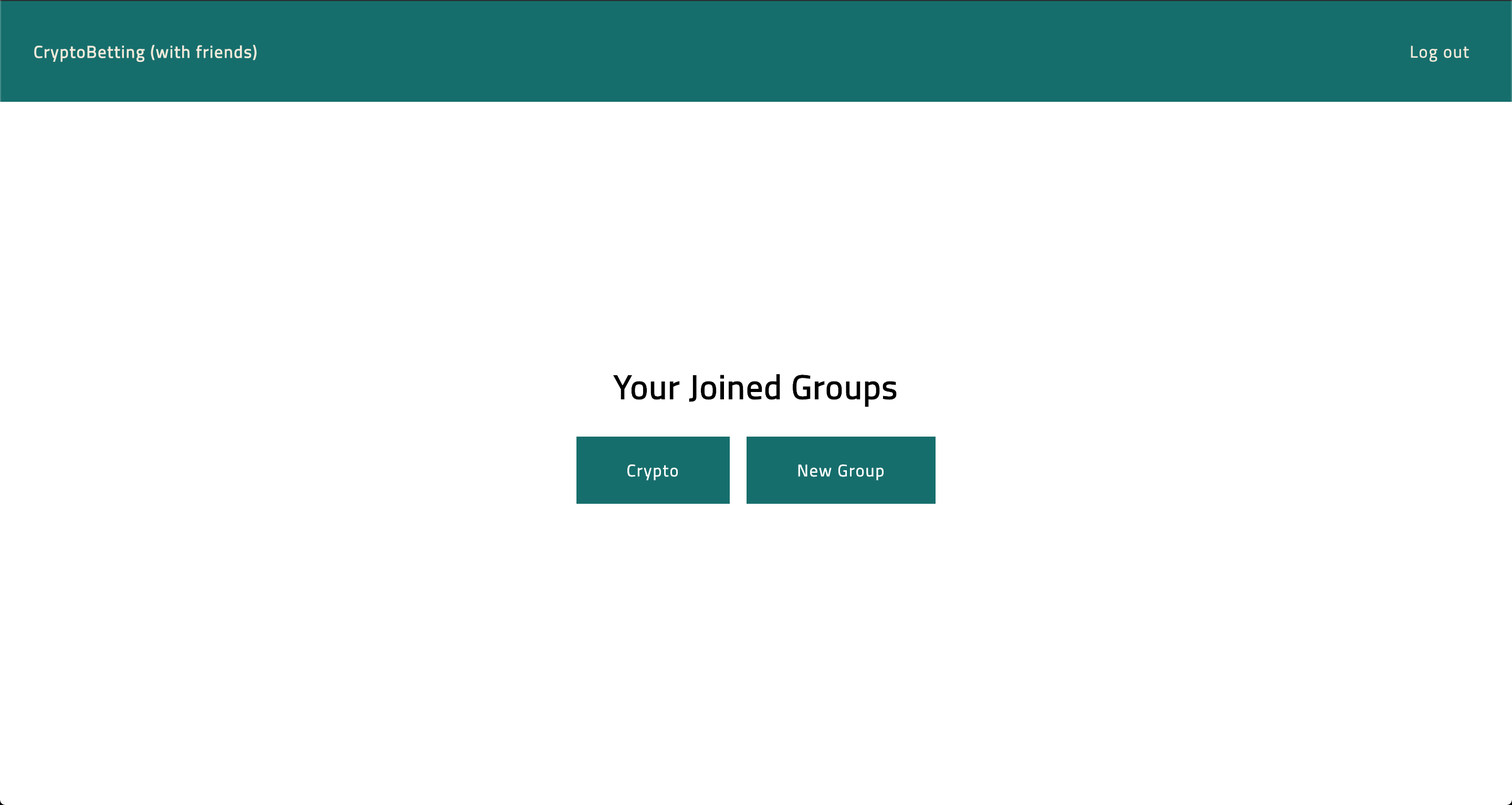
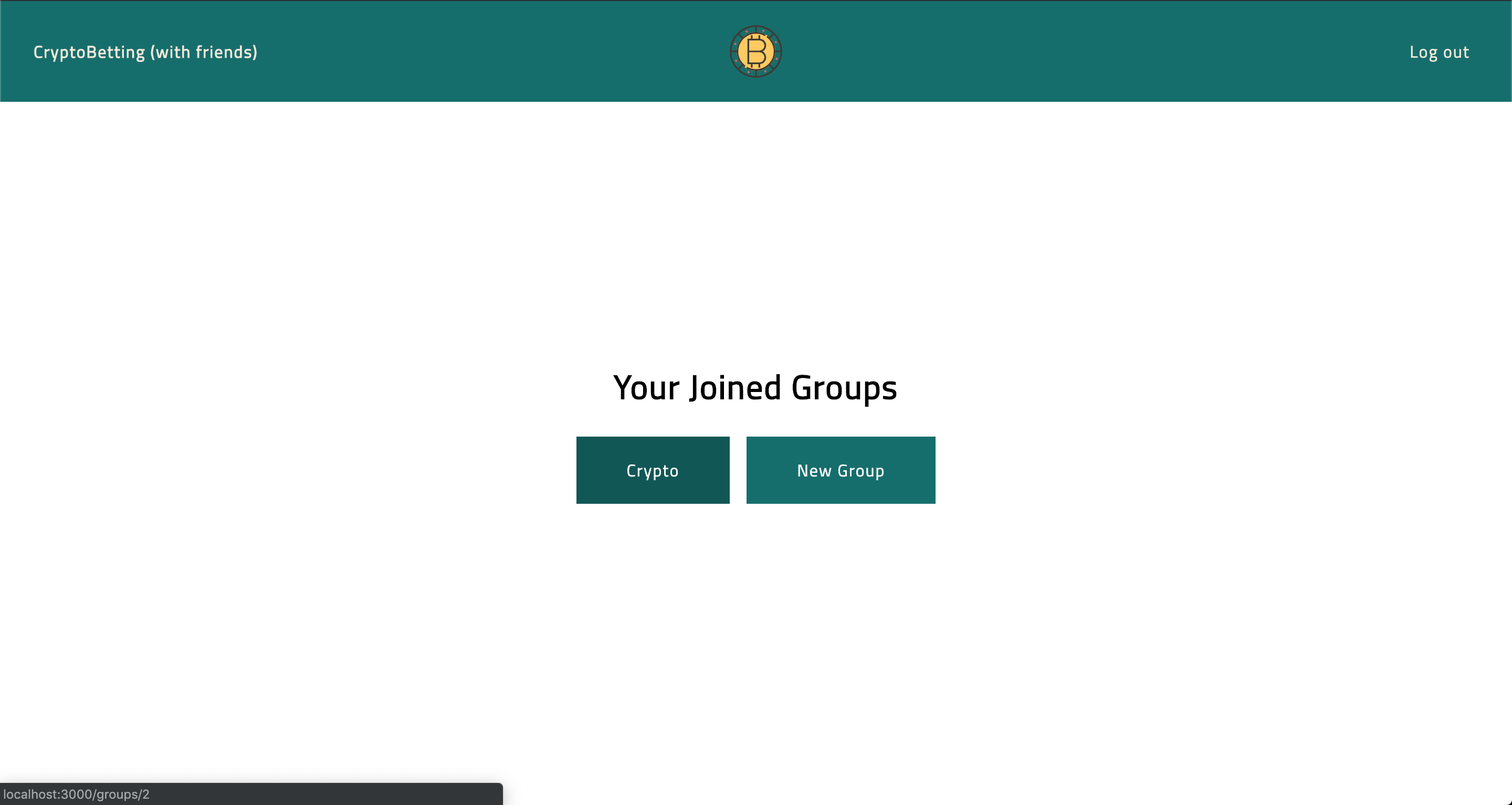
feat(connection): add connection loader

Changed region(s): [[0.0, 0.9498, 0.3438, 1.0], [0.4688, 0.0306, 0.5312, 0.0919]]

diff --git a/server/public/css/index.css b/server/public/css/index.css
@@ -1,1 +1,1 @@
-@font-face{font-family:'Fira Sans';src:url(../assets/fonts/Fira-Sans-ExtraBoldItalic.eot);src:local("Fira Sans ExtraBold Italic"),local("FiraSans-ExtraBoldItalic"),url(../assets/fonts/Fira-Sans-ExtraBoldItalic.eot?#iefix) format("embedded-opentype"),url(../assets/fonts/Fira-Sans-ExtraBoldItalic.woff2) format("woff2"),url(../assets/fonts/Fira-Sans-ExtraBoldItalic.woff) format("woff"),url(../assets/fonts/Fira-Sans-ExtraBoldItalic.ttf) format("truetype"),url(../assets/fonts/Fira-Sans-ExtraBoldItalic.svg#FiraSans-ExtraBoldItalic) format("svg");font-display:swap;font-weight:800;font-style:italic}@font-face{font-family:'Fira Sans';src:url(../assets/fonts/Fira-Sans-Italic.eot);src:local("Fira Sans Italic"),local("FiraSans-Italic"),url(../assets/fonts/Fira-Sans-Italic.eot?#iefix) format("embedded-opentype"),url(../assets/fonts/Fira-Sans-Italic.woff2) format("woff2"),url(../assets/fonts/Fira-Sans-Italic.woff) format("woff"),url(../assets/fonts/Fira-Sans-Italic.ttf) format("truetype"),url(../assets/fonts/Fira-Sans-Italic.svg#FiraSans-Italic) format("svg");font-display:swap;font-weight:400;font-style:italic}@font-face{font-family:'Fira Sans';src:url(../assets/fonts/Fira-Sans-SemiBoldItalic.eot);src:local("Fira Sans SemiBold Italic"),local("FiraSans-SemiBoldItalic"),url(../assets/fonts/Fira-Sans-SemiBoldItalic.eot?#iefix) format("embedded-opentype"),url(../assets/fonts/Fira-Sans-SemiBoldItalic.woff2) format("woff2"),url(../assets/fonts/Fira-Sans-SemiBoldItalic.woff) format("woff"),url(../assets/fonts/Fira-Sans-SemiBoldItalic.ttf) format("truetype"),url(../assets/fonts/Fira-Sans-SemiBoldItalic.svg#FiraSans-SemiBoldItalic) format("svg");font-display:swap;font-weight:600;font-style:italic}@font-face{font-family:'Fira Sans';src:url(../assets/fonts/Fira-Sans-ExtraLight.eot);src:local("Fira Sans ExtraLight"),local("FiraSans-ExtraLight"),url(../assets/fonts/Fira-Sans-ExtraLight.eot?#iefix) format("embedded-opentype"),url(../assets/fonts/Fira-Sans-ExtraLight.woff2) format("woff2"),url(../assets/fonts/Fira-Sans-ExtraLight.woff) format("woff"),url(../assets/fonts/Fira-Sans-ExtraLight.ttf) format("truetype"),url(../assets/fonts/Fira-Sans-ExtraLight.svg#FiraSans-ExtraLight) format("svg");font-display:swap;font-weight:200;font-style:normal}@font-face{font-family:'Fira Sans';src:url(../assets/fonts/Fira-Sans-Medium.eot);src:local("Fira Sans Medium"),local("FiraSans-Medium"),url(../assets/fonts/Fira-Sans-Medium.eot?#iefix) format("embedded-opentype"),url(../assets/fonts/Fira-Sans-Medium.woff2) format("woff2"),url(../assets/fonts/Fira-Sans-Medium.woff) format("woff"),url(../assets/fonts/Fira-Sans-Medium.ttf) format("truetype"),url(../assets/fonts/Fira-Sans-Medium.svg#FiraSans-Medium) format("svg");font-display:swap;font-weight:500;font-style:normal}@font-face{font-family:'Fira Sans';src:url(../assets/fonts/Fira-Sans-LightItalic.eot);src:local("Fira Sans Light Italic"),local("FiraSans-LightItalic"),url(../assets/fonts/Fira-Sans-LightItalic.eot?#iefix) format("embedded-opentype"),url(../assets/fonts/Fira-Sans-LightItalic.woff2) format("woff2"),url(../assets/fonts/Fira-Sans-LightItalic.woff) format("woff"),url(../assets/fonts/Fira-Sans-LightItalic.ttf) format("truetype"),url(../assets/fonts/Fira-Sans-LightItalic.svg#FiraSans-LightItalic) format("svg");font-display:swap;font-weight:300;font-style:italic}@font-face{font-family:'Fira Sans';src:url(../assets/fonts/Fira-Sans-SemiBold.eot);src:local("Fira Sans SemiBold"),local("FiraSans-SemiBold"),url(../assets/fonts/Fira-Sans-SemiBold.eot?#iefix) format("embedded-opentype"),url(../assets/fonts/Fira-Sans-SemiBold.woff2) format("woff2"),url(../assets/fonts/Fira-Sans-SemiBold.woff) format("woff"),url(../assets/fonts/Fira-Sans-SemiBold.ttf) format("truetype"),url(../assets/fonts/Fira-Sans-SemiBold.svg#FiraSans-SemiBold) format("svg");font-display:swap;font-weight:600;font-style:normal}@font-face{font-family:'Fira Sans';src:url(../assets/fonts/Fira-Sans-Bold.eot);src:local("Fira Sans Bold"),local("FiraSans-Bold"),url(../assets/fonts/Fira-Sans-Bold.eot?#iefix) format("embedded-opentype"),url(../assets/fonts/Fira-Sans-Bold.woff2) format("woff2"),url(../assets/fonts/Fira-Sans-Bold.woff) format("woff"),url(../assets/fonts/Fira-Sans-Bold.ttf) format("truetype"),url(../assets/fonts/Fira-Sans-Bold.svg#FiraSans-Bold) format("svg");font-display:swap;font-weight:700;font-style:normal}@font-face{font-family:'Fira Sans';src:url(../assets/fonts/Fira-Sans-BoldItalic.eot);src:local("Fira Sans Bold Italic"),local("FiraSans-BoldItalic"),url(../assets/fonts/Fira-Sans-BoldItalic.eot?#iefix) format("embedded-opentype"),url(../assets/fonts/Fira-Sans-BoldItalic.woff2) format("woff2"),url(../assets/fonts/Fira-Sans-BoldItalic.woff) format("woff"),url(../assets/fonts/Fira-Sans-BoldItalic.ttf) format("truetype"),url(../assets/fonts/Fira-Sans-BoldItalic.svg#FiraSans-BoldItalic) format("svg");font-display:swap;font-weight:700;font-style:italic}@font-face{font-family:'Fira Sans';src:url(../assets/fonts/Fira-Sans-ExtraLightItalic.eot);src:local("Fira Sans ExtraLight Italic"),local("FiraSans-ExtraLightItalic"),url(../assets/fonts/Fira-Sans-ExtraLightItalic.eot?#iefix) format("embedded-opentype"),url(../assets/fonts/Fira-Sans-ExtraLightItalic.woff2) format("woff2"),url(../assets/fonts/Fira-Sans-ExtraLightItalic.woff) format("woff"),url(../assets/fonts/Fira-Sans-ExtraLightItalic.ttf) format("truetype"),url(../assets/fonts/Fira-Sans-ExtraLightItalic.svg#FiraSans-ExtraLightItalic) format("svg");font-display:swap;font-weight:200;font-style:italic}@font-face{font-family:'Fira Sans';src:url(../assets/fonts/Fira-Sans-Thin.eot);src:local("Fira Sans Thin"),local("FiraSans-Thin"),url(../assets/fonts/Fira-Sans-Thin.eot?#iefix) format("embedded-opentype"),url(../assets/fonts/Fira-Sans-Thin.woff2) format("woff2"),url(../assets/fonts/Fira-Sans-Thin.woff) format("woff"),url(../assets/fonts/Fira-Sans-Thin.ttf) format("truetype"),url(../assets/fonts/Fira-Sans-Thin.svg#FiraSans-Thin) format("svg");font-display:swap;font-weight:100;font-style:normal}@font-face{font-family:'Fira Sans';src:url(../assets/fonts/Fira-Sans-Black.eot);src:local("Fira Sans Black"),local("FiraSans-Black"),url(../assets/fonts/Fira-Sans-Black.eot?#iefix) format("embedded-opentype"),url(../assets/fonts/Fira-Sans-Black.woff2) format("woff2"),url(../assets/fonts/Fira-Sans-Black.woff) format("woff"),url(../assets/fonts/Fira-Sans-Black.ttf) format("truetype"),url(../assets/fonts/Fira-Sans-Black.svg#FiraSans-Black) format("svg");font-display:swap;font-weight:900;font-style:normal}@font-face{font-family:'Fira Sans';src:url(../assets/fonts/Fira-Sans-Regular.eot);src:local("Fira Sans Regular"),local("FiraSans-Regular"),url(../assets/fonts/Fira-Sans-Regular.eot?#iefix) format("embedded-opentype"),url(../assets/fonts/Fira-Sans-Regular.woff2) format("woff2"),url(../assets/fonts/Fira-Sans-Regular.woff) format("woff"),url(../assets/fonts/Fira-Sans-Regular.ttf) format("truetype"),url(../assets/fonts/Fira-Sans-Regular.svg#FiraSans-Regular) format("svg");font-display:swap;font-weight:400;font-style:normal}@font-face{font-family:'Fira Sans';src:url(../assets/fonts/Fira-Sans-ExtraBold.eot);src:local("Fira Sans ExtraBold"),local("FiraSans-ExtraBold"),url(../assets/fonts/Fira-Sans-ExtraBold.eot?#iefix) format("embedded-opentype"),url(../assets/fonts/Fira-Sans-ExtraBold.woff2) format("woff2"),url(../assets/fonts/Fira-Sans-ExtraBold.woff) format("woff"),url(../assets/fonts/Fira-Sans-ExtraBold.ttf) format("truetype"),url(../assets/fonts/Fira-Sans-ExtraBold.svg#FiraSans-ExtraBold) format("svg");font-display:swap;font-weight:800;font-style:normal}@font-face{font-family:'Fira Sans';src:url(../assets/fonts/Fira-Sans-MediumItalic.eot);src:local("Fira Sans Medium Italic"),local("FiraSans-MediumItalic"),url(../assets/fonts/Fira-Sans-MediumItalic.eot?#iefix) format("embedded-opentype"),url(../assets/fonts/Fira-Sans-MediumItalic.woff2) format("woff2"),url(../assets/fonts/Fira-Sans-MediumItalic.woff) format("woff"),url(../assets/fonts/Fira-Sans-MediumItalic.ttf) format("truetype"),url(../assets/fonts/Fira-Sans-MediumItalic.svg#FiraSans-MediumItalic) format("svg");font-display:swap;font-weight:500;font-style:italic}@font-face{font-family:'Fira Sans';src:url(../assets/fonts/Fira-Sans-Light.eot);src:local("Fira Sans Light"),local("FiraSans-Light"),url(../assets/fonts/Fira-Sans-Light.eot?#iefix) format("embedded-opentype"),url(../assets/fonts/Fira-Sans-Light.woff2) format("woff2"),url(../assets/fonts/Fira-Sans-Light.woff) format("woff"),url(../assets/fonts/Fira-Sans-Light.ttf) format("truetype"),url(../assets/fonts/Fira-Sans-Light.svg#FiraSans-Light) format("svg");font-display:swap;font-weight:300;font-style:normal}@font-face{font-family:'Fira Sans';src:url(../assets/fonts/Fira-Sans-ThinItalic.eot);src:local("Fira Sans Thin Italic"),local("FiraSans-ThinItalic"),url(../assets/fonts/Fira-Sans-ThinItalic.eot?#iefix) format("embedded-opentype"),url(../assets/fonts/Fira-Sans-ThinItalic.woff2) format("woff2"),url(../assets/fonts/Fira-Sans-ThinItalic.woff) format("woff"),url(../assets/fonts/Fira-Sans-ThinItalic.ttf) format("truetype"),url(../assets/fonts/Fira-Sans-ThinItalic.svg#FiraSans-ThinItalic) format("svg");font-display:swap;font-weight:100;font-style:italic}@font-face{font-family:'Fira Sans';src:url(../assets/fonts/Fira-Sans-BlackItalic.eot);src:local("Fira Sans #000 Italic"),local("FiraSans-BlackItalic"),url(../assets/fonts/Fira-Sans-BlackItalic.eot?#iefix) format("embedded-opentype"),url(../assets/fonts/Fira-Sans-BlackItalic.woff2) format("woff2"),url(../assets/fonts/Fira-Sans-BlackItalic.woff) format("woff"),url(../assets/fonts/Fira-Sans-BlackItalic.ttf) format("truetype"),url(../assets/fonts/Fira-Sans-BlackItalic.svg#FiraSans-BlackItalic) format("svg");font-display:swap;font-weight:900;font-style:italic}*{margin:0;font-family:inherit;line-height:inherit;padding:0;color:inherit;box-sizing:inherit;letter-spacing:1px}::after,::before{box-sizing:inherit}html{box-sizing:border-box}body,html{min-height:100%;min-height:100vh}audio,canvas,iframe,img,label,meter,progress,svg,video{display:block}button{font-size:inherit;cursor:pointer;background-color:transparent}table{border-collapse:collapse;border-spacing:0}ol,ul{list-style:none}blockquote,q{quotes:none}blockquote::after,blockquote::before,q::after,q::before{content:'';content:none}fieldset{border:0}body{display:flex;line-height:1;background-color:#fff;color:#000;overflow-x:hidden;font-family:'Titillium Web','Segoe UI',Tahoma,Geneva,Verdana,sans-serif}body main{width:100%}#crypto-data,.PageTitle{font-size:1rem;font-weight:700}#crypto-data{transition:color .2s ease}#crypto-data.up{color:teal}#crypto-data.down{color:#dc143c}.Cover{background-color:teal;color:#fff}.Cover .PageTitle{text-align:center;font-size:2em;margin-top:1%}.Cover .CoverView{position:absolute;top:50%;left:50%;transform:translate(-50%,-50%)}.Cover .CoverView__title{font-size:2em;text-align:center;margin-bottom:.5em}.Cover .CoverView__field+.CoverView__field{margin-top:1em}.Cover .CoverView__label-text{display:block;margin-bottom:.5em}.Cover .CoverView .Button{margin-top:2em;width:100%}.Cover .CoverView .Link{margin-top:1em;text-align:center;width:100%}.Button{background-color:#fff;color:#000;border:0;padding:1em 2em;border-radius:2px;transition:.2s ease all;text-decoration:none;display:inline-block;text-align:center}.Button:hover{background-color:#f2f2f2}.Button--action{background-color:#ffa17a;color:#000}.Button--action:hover{background-color:#ff8f61}.Button--block{flex:1;background-color:#0e6e6c;border-radius:0;white-space:nowrap;color:#fff}.Button--block:hover{background-color:#0b5756}.Button--small{padding:1.5em 3em}.Button--disabled{opacity:.5;cursor:not-allowed}.Button--disabled.Button--action:hover{background-color:#ffa17a}.Link{color:#f3eada;text-decoration:none;display:inline-block;transition:.2s ease color}.Link:hover{color:#eddfc7;text-decoration:underline}.CenterView{position:absolute;top:50%;left:50%;transform:translate(-50%,-50%)}.Row{display:flex;flex-direction:row;align-items:center}.Row--wrap{flex-wrap:wrap}.ActionRow{justify-content:center;min-width:80vw}.ActionRow__item+.ActionRow__item{margin-left:1em}.PageHeader{width:100%;padding:2em;background-color:#0e6e6c}.PageHeader__nav{justify-content:space-between;position:relative}.PageHeader__icon{position:absolute;left:50%;top:50%;transform:translate(-50%,-50%)}.PageHeader__logout{padding:.5em;border:0}.Field__title{display:block;font-weight:700}.Field__content{margin-top:1em;display:block}.Field+.Field{margin-top:2em}.Input{-webkit-appearance:none;appearance:none;min-width:30em;width:100%;padding:.5em 1em;color:#000;border:1px solid #000;background-color:#fff;border-radius:2px;font-size:1em}.Input--small{width:6em;min-width:initial}.Input--underline{border:none;padding:.5em;border-radius:0;border-bottom:2px solid #000}.Form__submit-button{margin-top:1em;width:100%}.Table{table-layout:auto;box-shadow:0 14px 28px rgba(0,0,0,.25),0 10px 10px rgba(0,0,0,.22);width:90vw;border-collapse:collapse}.Table__row{border-top:1px solid #000;padding:2em 1em;display:flex;align-items:center;max-height:81px}.Table__cell,.Table__heading{text-align:left;flex:1;text-overflow:ellipsis}.Table__heading{padding:1em .5em;font-weight:400;color:grey}.Table__head .Table__row{border-top:none;padding:.5em}.Table__cell{text-transform:capitalize}.PageSubTitle{margin-top:2em;margin-bottom:1em;text-align:center;font-weight:700;text-transform:capitalize;font-size:2em}.BlockList__item+.BlockList__item{margin-left:1em}.Column{display:flex;flex-direction:column}.Column--horizontal-center{align-items:center}
+@font-face{font-family:'Fira Sans';src:url(../assets/fonts/Fira-Sans-ExtraBoldItalic.eot);src:local("Fira Sans ExtraBold Italic"),local("FiraSans-ExtraBoldItalic"),url(../assets/fonts/Fira-Sans-ExtraBoldItalic.eot?#iefix) format("embedded-opentype"),url(../assets/fonts/Fira-Sans-ExtraBoldItalic.woff2) format("woff2"),url(../assets/fonts/Fira-Sans-ExtraBoldItalic.woff) format("woff"),url(../assets/fonts/Fira-Sans-ExtraBoldItalic.ttf) format("truetype"),url(../assets/fonts/Fira-Sans-ExtraBoldItalic.svg#FiraSans-ExtraBoldItalic) format("svg");font-display:swap;font-weight:800;font-style:italic}@font-face{font-family:'Fira Sans';src:url(../assets/fonts/Fira-Sans-Italic.eot);src:local("Fira Sans Italic"),local("FiraSans-Italic"),url(../assets/fonts/Fira-Sans-Italic.eot?#iefix) format("embedded-opentype"),url(../assets/fonts/Fira-Sans-Italic.woff2) format("woff2"),url(../assets/fonts/Fira-Sans-Italic.woff) format("woff"),url(../assets/fonts/Fira-Sans-Italic.ttf) format("truetype"),url(../assets/fonts/Fira-Sans-Italic.svg#FiraSans-Italic) format("svg");font-display:swap;font-weight:400;font-style:italic}@font-face{font-family:'Fira Sans';src:url(../assets/fonts/Fira-Sans-SemiBoldItalic.eot);src:local("Fira Sans SemiBold Italic"),local("FiraSans-SemiBoldItalic"),url(../assets/fonts/Fira-Sans-SemiBoldItalic.eot?#iefix) format("embedded-opentype"),url(../assets/fonts/Fira-Sans-SemiBoldItalic.woff2) format("woff2"),url(../assets/fonts/Fira-Sans-SemiBoldItalic.woff) format("woff"),url(../assets/fonts/Fira-Sans-SemiBoldItalic.ttf) format("truetype"),url(../assets/fonts/Fira-Sans-SemiBoldItalic.svg#FiraSans-SemiBoldItalic) format("svg");font-display:swap;font-weight:600;font-style:italic}@font-face{font-family:'Fira Sans';src:url(../assets/fonts/Fira-Sans-ExtraLight.eot);src:local("Fira Sans ExtraLight"),local("FiraSans-ExtraLight"),url(../assets/fonts/Fira-Sans-ExtraLight.eot?#iefix) format("embedded-opentype"),url(../assets/fonts/Fira-Sans-ExtraLight.woff2) format("woff2"),url(../assets/fonts/Fira-Sans-ExtraLight.woff) format("woff"),url(../assets/fonts/Fira-Sans-ExtraLight.ttf) format("truetype"),url(../assets/fonts/Fira-Sans-ExtraLight.svg#FiraSans-ExtraLight) format("svg");font-display:swap;font-weight:200;font-style:normal}@font-face{font-family:'Fira Sans';src:url(../assets/fonts/Fira-Sans-Medium.eot);src:local("Fira Sans Medium"),local("FiraSans-Medium"),url(../assets/fonts/Fira-Sans-Medium.eot?#iefix) format("embedded-opentype"),url(../assets/fonts/Fira-Sans-Medium.woff2) format("woff2"),url(../assets/fonts/Fira-Sans-Medium.woff) format("woff"),url(../assets/fonts/Fira-Sans-Medium.ttf) format("truetype"),url(../assets/fonts/Fira-Sans-Medium.svg#FiraSans-Medium) format("svg");font-display:swap;font-weight:500;font-style:normal}@font-face{font-family:'Fira Sans';src:url(../assets/fonts/Fira-Sans-LightItalic.eot);src:local("Fira Sans Light Italic"),local("FiraSans-LightItalic"),url(../assets/fonts/Fira-Sans-LightItalic.eot?#iefix) format("embedded-opentype"),url(../assets/fonts/Fira-Sans-LightItalic.woff2) format("woff2"),url(../assets/fonts/Fira-Sans-LightItalic.woff) format("woff"),url(../assets/fonts/Fira-Sans-LightItalic.ttf) format("truetype"),url(../assets/fonts/Fira-Sans-LightItalic.svg#FiraSans-LightItalic) format("svg");font-display:swap;font-weight:300;font-style:italic}@font-face{font-family:'Fira Sans';src:url(../assets/fonts/Fira-Sans-SemiBold.eot);src:local("Fira Sans SemiBold"),local("FiraSans-SemiBold"),url(../assets/fonts/Fira-Sans-SemiBold.eot?#iefix) format("embedded-opentype"),url(../assets/fonts/Fira-Sans-SemiBold.woff2) format("woff2"),url(../assets/fonts/Fira-Sans-SemiBold.woff) format("woff"),url(../assets/fonts/Fira-Sans-SemiBold.ttf) format("truetype"),url(../assets/fonts/Fira-Sans-SemiBold.svg#FiraSans-SemiBold) format("svg");font-display:swap;font-weight:600;font-style:normal}@font-face{font-family:'Fira Sans';src:url(../assets/fonts/Fira-Sans-Bold.eot);src:local("Fira Sans Bold"),local("FiraSans-Bold"),url(../assets/fonts/Fira-Sans-Bold.eot?#iefix) format("embedded-opentype"),url(../assets/fonts/Fira-Sans-Bold.woff2) format("woff2"),url(../assets/fonts/Fira-Sans-Bold.woff) format("woff"),url(../assets/fonts/Fira-Sans-Bold.ttf) format("truetype"),url(../assets/fonts/Fira-Sans-Bold.svg#FiraSans-Bold) format("svg");font-display:swap;font-weight:700;font-style:normal}@font-face{font-family:'Fira Sans';src:url(../assets/fonts/Fira-Sans-BoldItalic.eot);src:local("Fira Sans Bold Italic"),local("FiraSans-BoldItalic"),url(../assets/fonts/Fira-Sans-BoldItalic.eot?#iefix) format("embedded-opentype"),url(../assets/fonts/Fira-Sans-BoldItalic.woff2) format("woff2"),url(../assets/fonts/Fira-Sans-BoldItalic.woff) format("woff"),url(../assets/fonts/Fira-Sans-BoldItalic.ttf) format("truetype"),url(../assets/fonts/Fira-Sans-BoldItalic.svg#FiraSans-BoldItalic) format("svg");font-display:swap;font-weight:700;font-style:italic}@font-face{font-family:'Fira Sans';src:url(../assets/fonts/Fira-Sans-ExtraLightItalic.eot);src:local("Fira Sans ExtraLight Italic"),local("FiraSans-ExtraLightItalic"),url(../assets/fonts/Fira-Sans-ExtraLightItalic.eot?#iefix) format("embedded-opentype"),url(../assets/fonts/Fira-Sans-ExtraLightItalic.woff2) format("woff2"),url(../assets/fonts/Fira-Sans-ExtraLightItalic.woff) format("woff"),url(../assets/fonts/Fira-Sans-ExtraLightItalic.ttf) format("truetype"),url(../assets/fonts/Fira-Sans-ExtraLightItalic.svg#FiraSans-ExtraLightItalic) format("svg");font-display:swap;font-weight:200;font-style:italic}@font-face{font-family:'Fira Sans';src:url(../assets/fonts/Fira-Sans-Thin.eot);src:local("Fira Sans Thin"),local("FiraSans-Thin"),url(../assets/fonts/Fira-Sans-Thin.eot?#iefix) format("embedded-opentype"),url(../assets/fonts/Fira-Sans-Thin.woff2) format("woff2"),url(../assets/fonts/Fira-Sans-Thin.woff) format("woff"),url(../assets/fonts/Fira-Sans-Thin.ttf) format("truetype"),url(../assets/fonts/Fira-Sans-Thin.svg#FiraSans-Thin) format("svg");font-display:swap;font-weight:100;font-style:normal}@font-face{font-family:'Fira Sans';src:url(../assets/fonts/Fira-Sans-Black.eot);src:local("Fira Sans Black"),local("FiraSans-Black"),url(../assets/fonts/Fira-Sans-Black.eot?#iefix) format("embedded-opentype"),url(../assets/fonts/Fira-Sans-Black.woff2) format("woff2"),url(../assets/fonts/Fira-Sans-Black.woff) format("woff"),url(../assets/fonts/Fira-Sans-Black.ttf) format("truetype"),url(../assets/fonts/Fira-Sans-Black.svg#FiraSans-Black) format("svg");font-display:swap;font-weight:900;font-style:normal}@font-face{font-family:'Fira Sans';src:url(../assets/fonts/Fira-Sans-Regular.eot);src:local("Fira Sans Regular"),local("FiraSans-Regular"),url(../assets/fonts/Fira-Sans-Regular.eot?#iefix) format("embedded-opentype"),url(../assets/fonts/Fira-Sans-Regular.woff2) format("woff2"),url(../assets/fonts/Fira-Sans-Regular.woff) format("woff"),url(../assets/fonts/Fira-Sans-Regular.ttf) format("truetype"),url(../assets/fonts/Fira-Sans-Regular.svg#FiraSans-Regular) format("svg");font-display:swap;font-weight:400;font-style:normal}@font-face{font-family:'Fira Sans';src:url(../assets/fonts/Fira-Sans-ExtraBold.eot);src:local("Fira Sans ExtraBold"),local("FiraSans-ExtraBold"),url(../assets/fonts/Fira-Sans-ExtraBold.eot?#iefix) format("embedded-opentype"),url(../assets/fonts/Fira-Sans-ExtraBold.woff2) format("woff2"),url(../assets/fonts/Fira-Sans-ExtraBold.woff) format("woff"),url(../assets/fonts/Fira-Sans-ExtraBold.ttf) format("truetype"),url(../assets/fonts/Fira-Sans-ExtraBold.svg#FiraSans-ExtraBold) format("svg");font-display:swap;font-weight:800;font-style:normal}@font-face{font-family:'Fira Sans';src:url(../assets/fonts/Fira-Sans-MediumItalic.eot);src:local("Fira Sans Medium Italic"),local("FiraSans-MediumItalic"),url(../assets/fonts/Fira-Sans-MediumItalic.eot?#iefix) format("embedded-opentype"),url(../assets/fonts/Fira-Sans-MediumItalic.woff2) format("woff2"),url(../assets/fonts/Fira-Sans-MediumItalic.woff) format("woff"),url(../assets/fonts/Fira-Sans-MediumItalic.ttf) format("truetype"),url(../assets/fonts/Fira-Sans-MediumItalic.svg#FiraSans-MediumItalic) format("svg");font-display:swap;font-weight:500;font-style:italic}@font-face{font-family:'Fira Sans';src:url(../assets/fonts/Fira-Sans-Light.eot);src:local("Fira Sans Light"),local("FiraSans-Light"),url(../assets/fonts/Fira-Sans-Light.eot?#iefix) format("embedded-opentype"),url(../assets/fonts/Fira-Sans-Light.woff2) format("woff2"),url(../assets/fonts/Fira-Sans-Light.woff) format("woff"),url(../assets/fonts/Fira-Sans-Light.ttf) format("truetype"),url(../assets/fonts/Fira-Sans-Light.svg#FiraSans-Light) format("svg");font-display:swap;font-weight:300;font-style:normal}@font-face{font-family:'Fira Sans';src:url(../assets/fonts/Fira-Sans-ThinItalic.eot);src:local("Fira Sans Thin Italic"),local("FiraSans-ThinItalic"),url(../assets/fonts/Fira-Sans-ThinItalic.eot?#iefix) format("embedded-opentype"),url(../assets/fonts/Fira-Sans-ThinItalic.woff2) format("woff2"),url(../assets/fonts/Fira-Sans-ThinItalic.woff) format("woff"),url(../assets/fonts/Fira-Sans-ThinItalic.ttf) format("truetype"),url(../assets/fonts/Fira-Sans-ThinItalic.svg#FiraSans-ThinItalic) format("svg");font-display:swap;font-weight:100;font-style:italic}@font-face{font-family:'Fira Sans';src:url(../assets/fonts/Fira-Sans-BlackItalic.eot);src:local("Fira Sans #000 Italic"),local("FiraSans-BlackItalic"),url(../assets/fonts/Fira-Sans-BlackItalic.eot?#iefix) format("embedded-opentype"),url(../assets/fonts/Fira-Sans-BlackItalic.woff2) format("woff2"),url(../assets/fonts/Fira-Sans-BlackItalic.woff) format("woff"),url(../assets/fonts/Fira-Sans-BlackItalic.ttf) format("truetype"),url(../assets/fonts/Fira-Sans-BlackItalic.svg#FiraSans-BlackItalic) format("svg");font-display:swap;font-weight:900;font-style:italic}*{margin:0;font-family:inherit;line-height:inherit;padding:0;color:inherit;box-sizing:inherit;letter-spacing:1px}::after,::before{box-sizing:inherit}html{box-sizing:border-box}body,html{min-height:100%;min-height:100vh}audio,canvas,iframe,img,label,meter,progress,svg,video{display:block}button{font-size:inherit;cursor:pointer;background-color:transparent}table{border-collapse:collapse;border-spacing:0}ol,ul{list-style:none}blockquote,q{quotes:none}blockquote::after,blockquote::before,q::after,q::before{content:'';content:none}fieldset{border:0}body{display:flex;line-height:1;background-color:#fff;color:#000;overflow-x:hidden;font-family:'Titillium Web','Segoe UI',Tahoma,Geneva,Verdana,sans-serif}body main{width:100%}#crypto-data,.PageTitle{font-size:1rem;font-weight:700}#crypto-data{transition:color .2s ease}#crypto-data.up{color:teal}#crypto-data.down{color:#dc143c}.Cover{background-color:teal;color:#fff}.Cover .PageTitle{text-align:center;font-size:2em;margin-top:1%}.Cover .CoverView{position:absolute;top:50%;left:50%;transform:translate(-50%,-50%)}.Cover .CoverView__title{font-size:2em;text-align:center;margin-bottom:.5em}.Cover .CoverView__field+.CoverView__field{margin-top:1em}.Cover .CoverView__label-text{display:block;margin-bottom:.5em}.Cover .CoverView .Button{margin-top:2em;width:100%}.Cover .CoverView .Link{margin-top:1em;text-align:center;width:100%}.Button{background-color:#fff;color:#000;border:0;padding:1em 2em;border-radius:2px;transition:.2s ease all;text-decoration:none;display:inline-block;text-align:center}.Button:hover{background-color:#f2f2f2}.Button--action{background-color:#ffa17a;color:#000}.Button--action:hover{background-color:#ff8f61}.Button--block{flex:1;background-color:#0e6e6c;border-radius:0;white-space:nowrap;color:#fff}.Button--block:hover{background-color:#0b5756}.Button--small{padding:1.5em 3em}.Button--disabled{opacity:.5;cursor:not-allowed}.Button--disabled.Button--action:hover{background-color:#ffa17a}.Link{color:#f3eada;text-decoration:none;display:inline-block;transition:.2s ease color}.Link:hover{color:#eddfc7;text-decoration:underline}.CenterView{position:absolute;top:50%;left:50%;transform:translate(-50%,-50%)}.Row{display:flex;flex-direction:row;align-items:center}.Row--wrap{flex-wrap:wrap}.ActionRow{justify-content:center;min-width:80vw}.ActionRow__item+.ActionRow__item{margin-left:1em}.PageHeader{width:100%;padding:2em;background-color:#0e6e6c}.PageHeader__nav{justify-content:space-between;position:relative}.PageHeader__icon{position:absolute;left:calc(50% - 25px);top:calc(50% - 25px);transform-origin:50% 50%}.PageHeader__logout{padding:.5em;border:0}.Field__title{display:block;font-weight:700}.Field__content{margin-top:1em;display:block}.Field+.Field{margin-top:2em}.Input{-webkit-appearance:none;appearance:none;min-width:30em;width:100%;padding:.5em 1em;color:#000;border:1px solid #000;background-color:#fff;border-radius:2px;font-size:1em}.Input--small{width:6em;min-width:initial}.Input--underline{border:none;padding:.5em;border-radius:0;border-bottom:2px solid #000}.Form__submit-button{margin-top:1em;width:100%}.Table{table-layout:auto;box-shadow:0 14px 28px rgba(0,0,0,.25),0 10px 10px rgba(0,0,0,.22);width:90vw;border-collapse:collapse}.Table__row{border-top:1px solid #000;padding:2em 1em;display:flex;align-items:center;max-height:81px}.Table__cell,.Table__heading{text-align:left;flex:1;text-overflow:ellipsis}.Table__heading{padding:1em .5em;font-weight:400;color:grey}.Table__head .Table__row{border-top:none;padding:.5em}.Table__cell{text-transform:capitalize}.PageSubTitle{margin-top:2em;margin-bottom:1em;text-align:center;font-weight:700;text-transform:capitalize;font-size:2em}.BlockList__item+.BlockList__item{margin-left:1em}.Column{display:flex;flex-direction:column}.Column--horizontal-center{align-items:center}

diff --git a/client/scripts/groups/detail.ts b/client/scripts/groups/detail.ts
@@ -1,6 +1,7 @@
 import 'babel-polyfill'
 import SocketIO from 'socket.io-client'
 import toast from 'toastr'
+import anime from 'animejs'
 import { ChangeBetData, BetType, GroupParticipant } from '../types/Group'
 
 ; (() => {
@@ -23,6 +24,14 @@ import { ChangeBetData, BetType, GroupParticipant } from '../types/Group'
     function onSocketConnection(socket: SocketIO.Socket) {
         const { pathname } = window.location
         const groupId = Number(pathname[pathname.lastIndexOf('/') + 1])
+
+        anime({
+            targets: '.PageHeader__icon',
+            rotate: 720,
+            scale: 1.2,
+            duration: 2000,
+            loop: true,
+        })
 
         socket.on('bet-change-validated-on-server', onBetChangeValidated)
         socket.on('effort-change-validated-on-server', onEffortChangeValidated)
@@ -121,7 +130,6 @@ import { ChangeBetData, BetType, GroupParticipant } from '../types/Group'
 
     function animateTextColor(element: Element, fluctuation: string, value: string) {
         (element as HTMLElement).style.setProperty('color', fluctuation === 'UP' ? 'green' : 'crimson')
-        ; (element as HTMLElement).style.setProperty('transform', 'scale(1.5)')
 
         setTimeout(() => {
             (element as HTMLElement).innerText = value

diff --git a/client/scripts/groups/join.ts b/client/scripts/groups/join.ts
@@ -1,6 +1,7 @@
 import 'babel-polyfill'
 import SocketIO from 'socket.io-client'
 import toast from 'toastr'
+import anime from 'animejs'
 import { GroupQueryResult, Group } from '../types/Group'
 
 interface NewParticipantAddedParams {
@@ -32,6 +33,13 @@ interface NewParticipantAddedParams {
 
     function onSocketConnection(socket: SocketIOClient.Socket) {
         socket.on('new-group-added', onNewGroupAdded)
+        anime({
+            targets: '.PageHeader__icon',
+            rotate: 720,
+            scale: 1.2,
+            duration: 2000,
+            loop: true,
+        })
         setupFormEventListener(socket)
     }
 

diff --git a/server/public/css/components/PageHeader.css b/server/public/css/components/PageHeader.css
@@ -1,1 +1,1 @@
-.PageHeader{width:100%;padding:2em;background-color:#0e6e6c}.PageHeader__nav{justify-content:space-between;position:relative}.PageHeader__icon{position:absolute;left:50%;top:50%;transform:translate(-50%,-50%)}.PageHeader__logout{padding:.5em;border:0}
+.PageHeader{width:100%;padding:2em;background-color:#0e6e6c}.PageHeader__nav{justify-content:space-between;position:relative}.PageHeader__icon{position:absolute;left:calc(50% - 25px);top:calc(50% - 25px);transform-origin:50% 50%}.PageHeader__logout{padding:.5em;border:0}

diff --git a/client/css/components/PageHeader.scss b/client/css/components/PageHeader.scss
@@ -12,9 +12,9 @@
 
     &__icon {
         position: absolute;
-        left: 50%;
-        top: 50%;
-        transform: translate(-50%, -50%);
+        left: calc(50% - 25px);
+        top: calc(50% - 25px);
+        transform-origin: 50% 50%;
     }
 
     &__logout {
